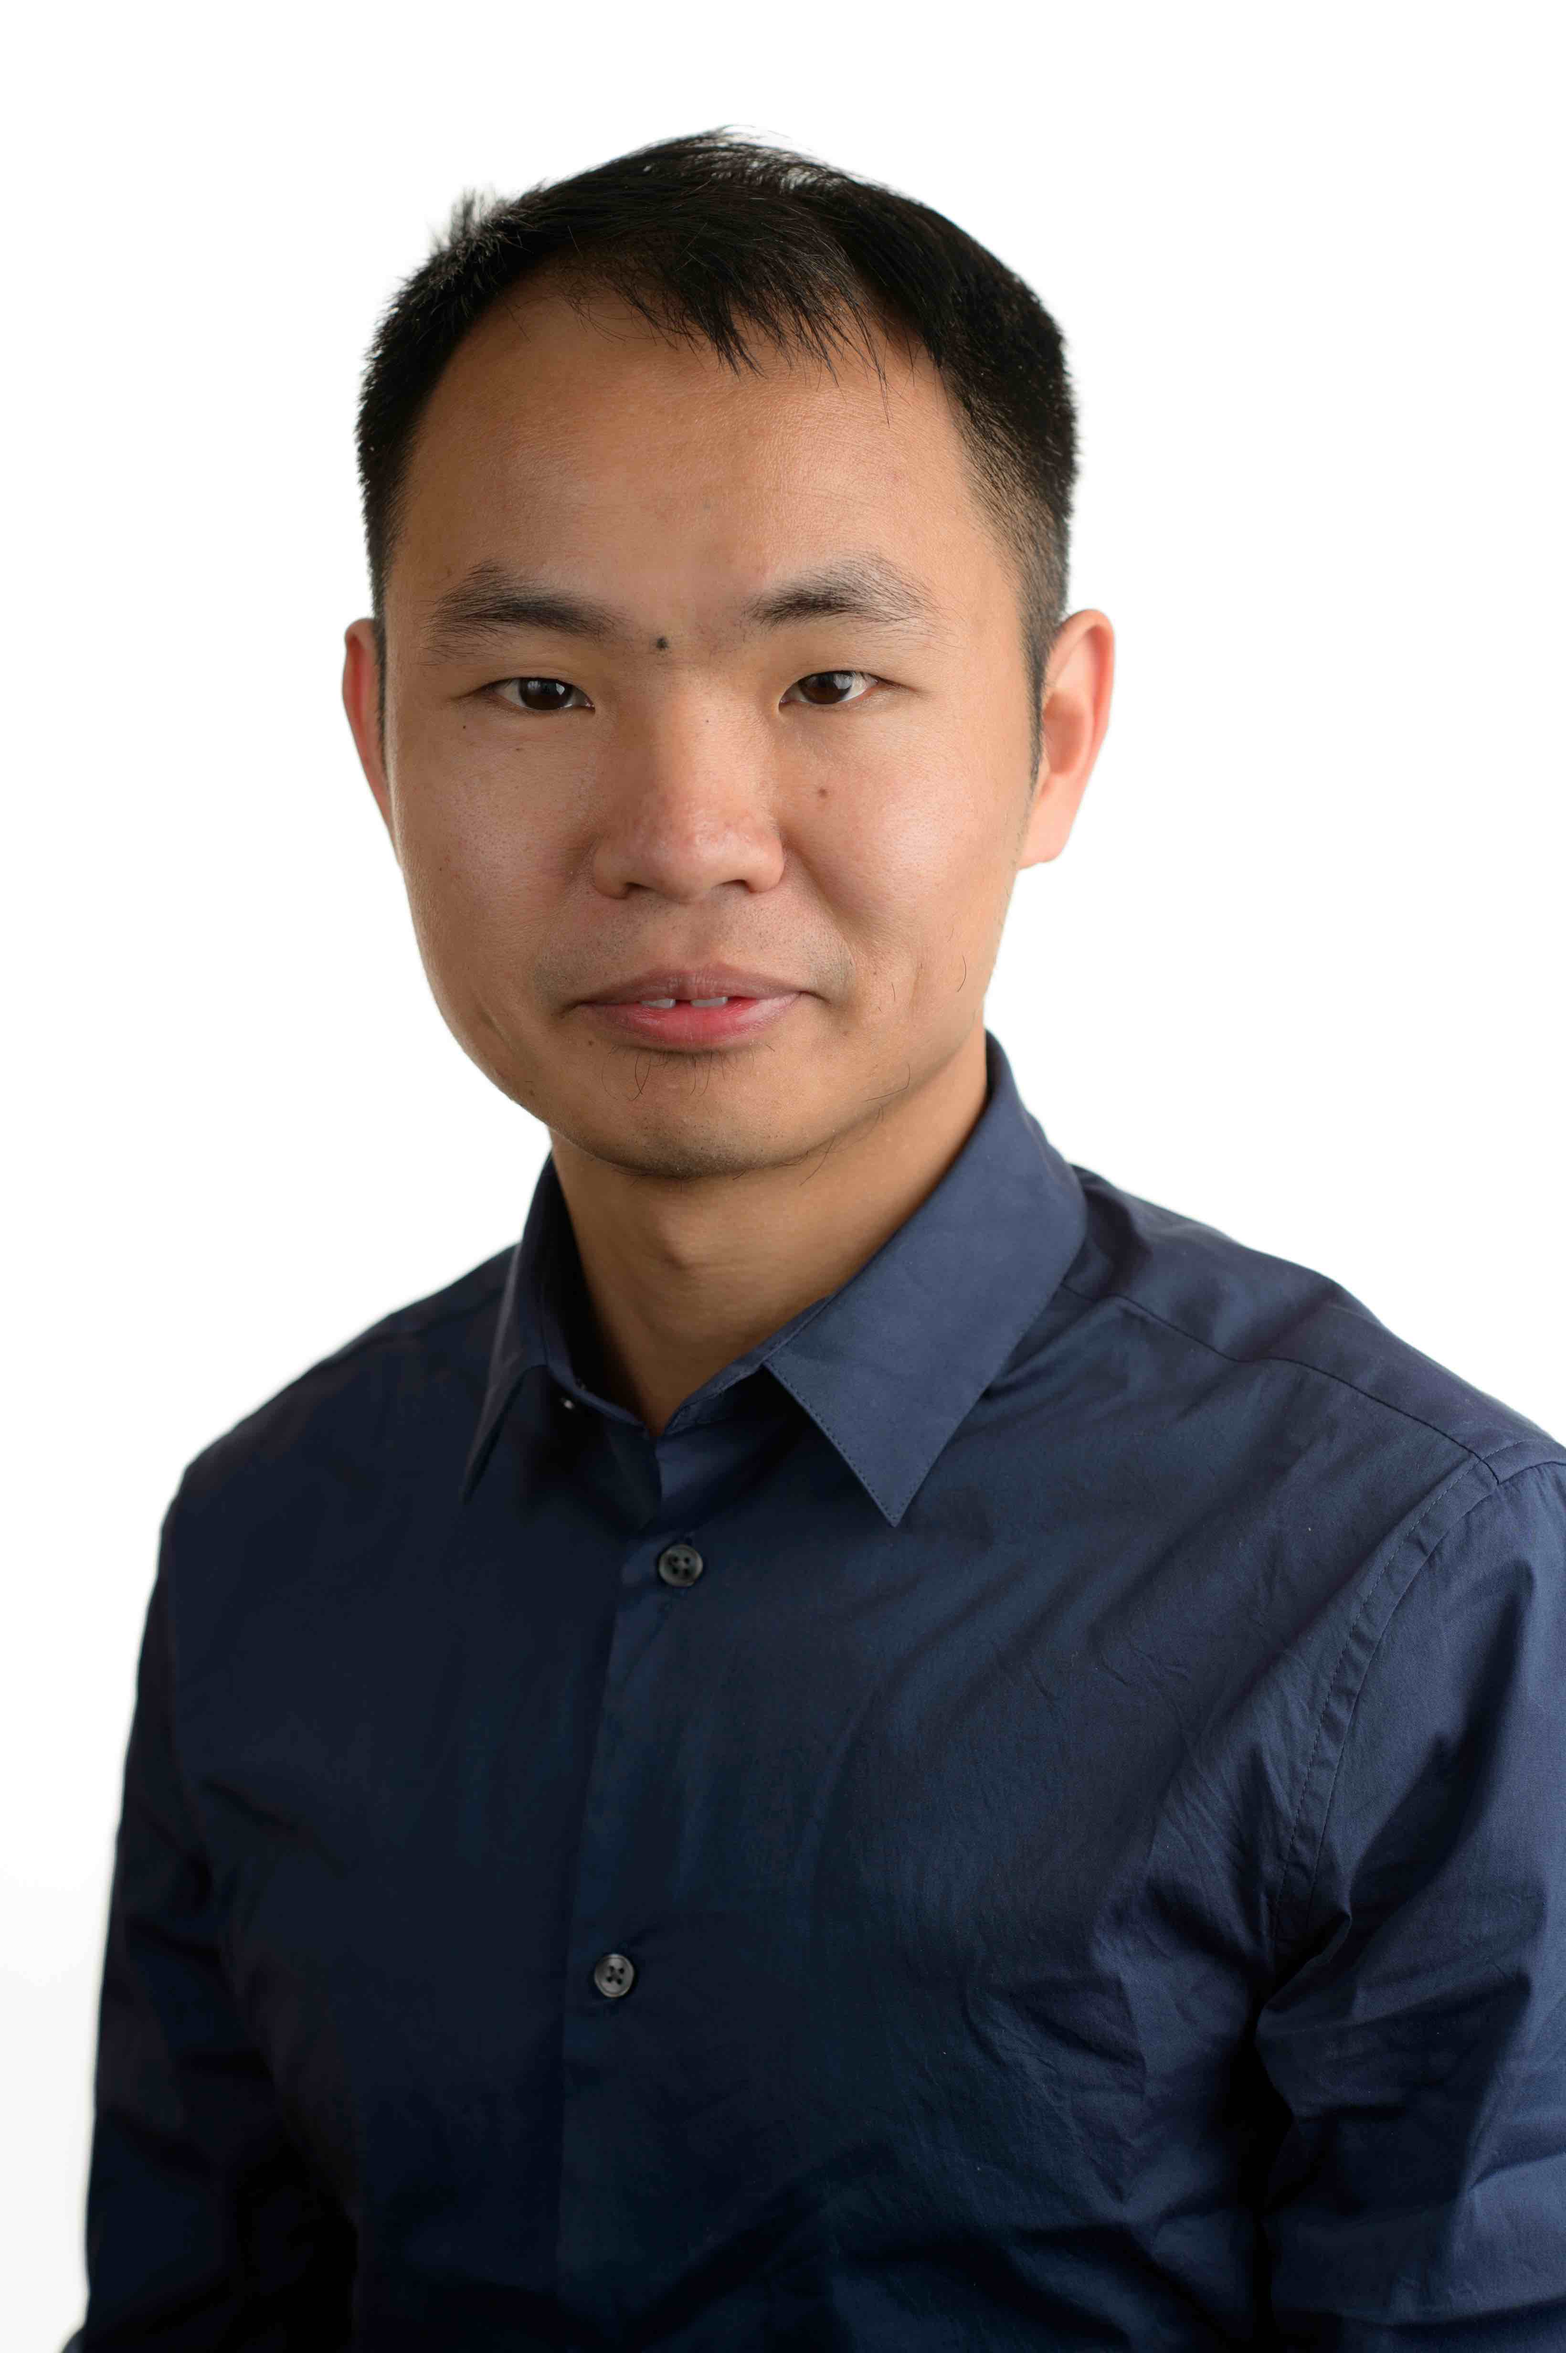
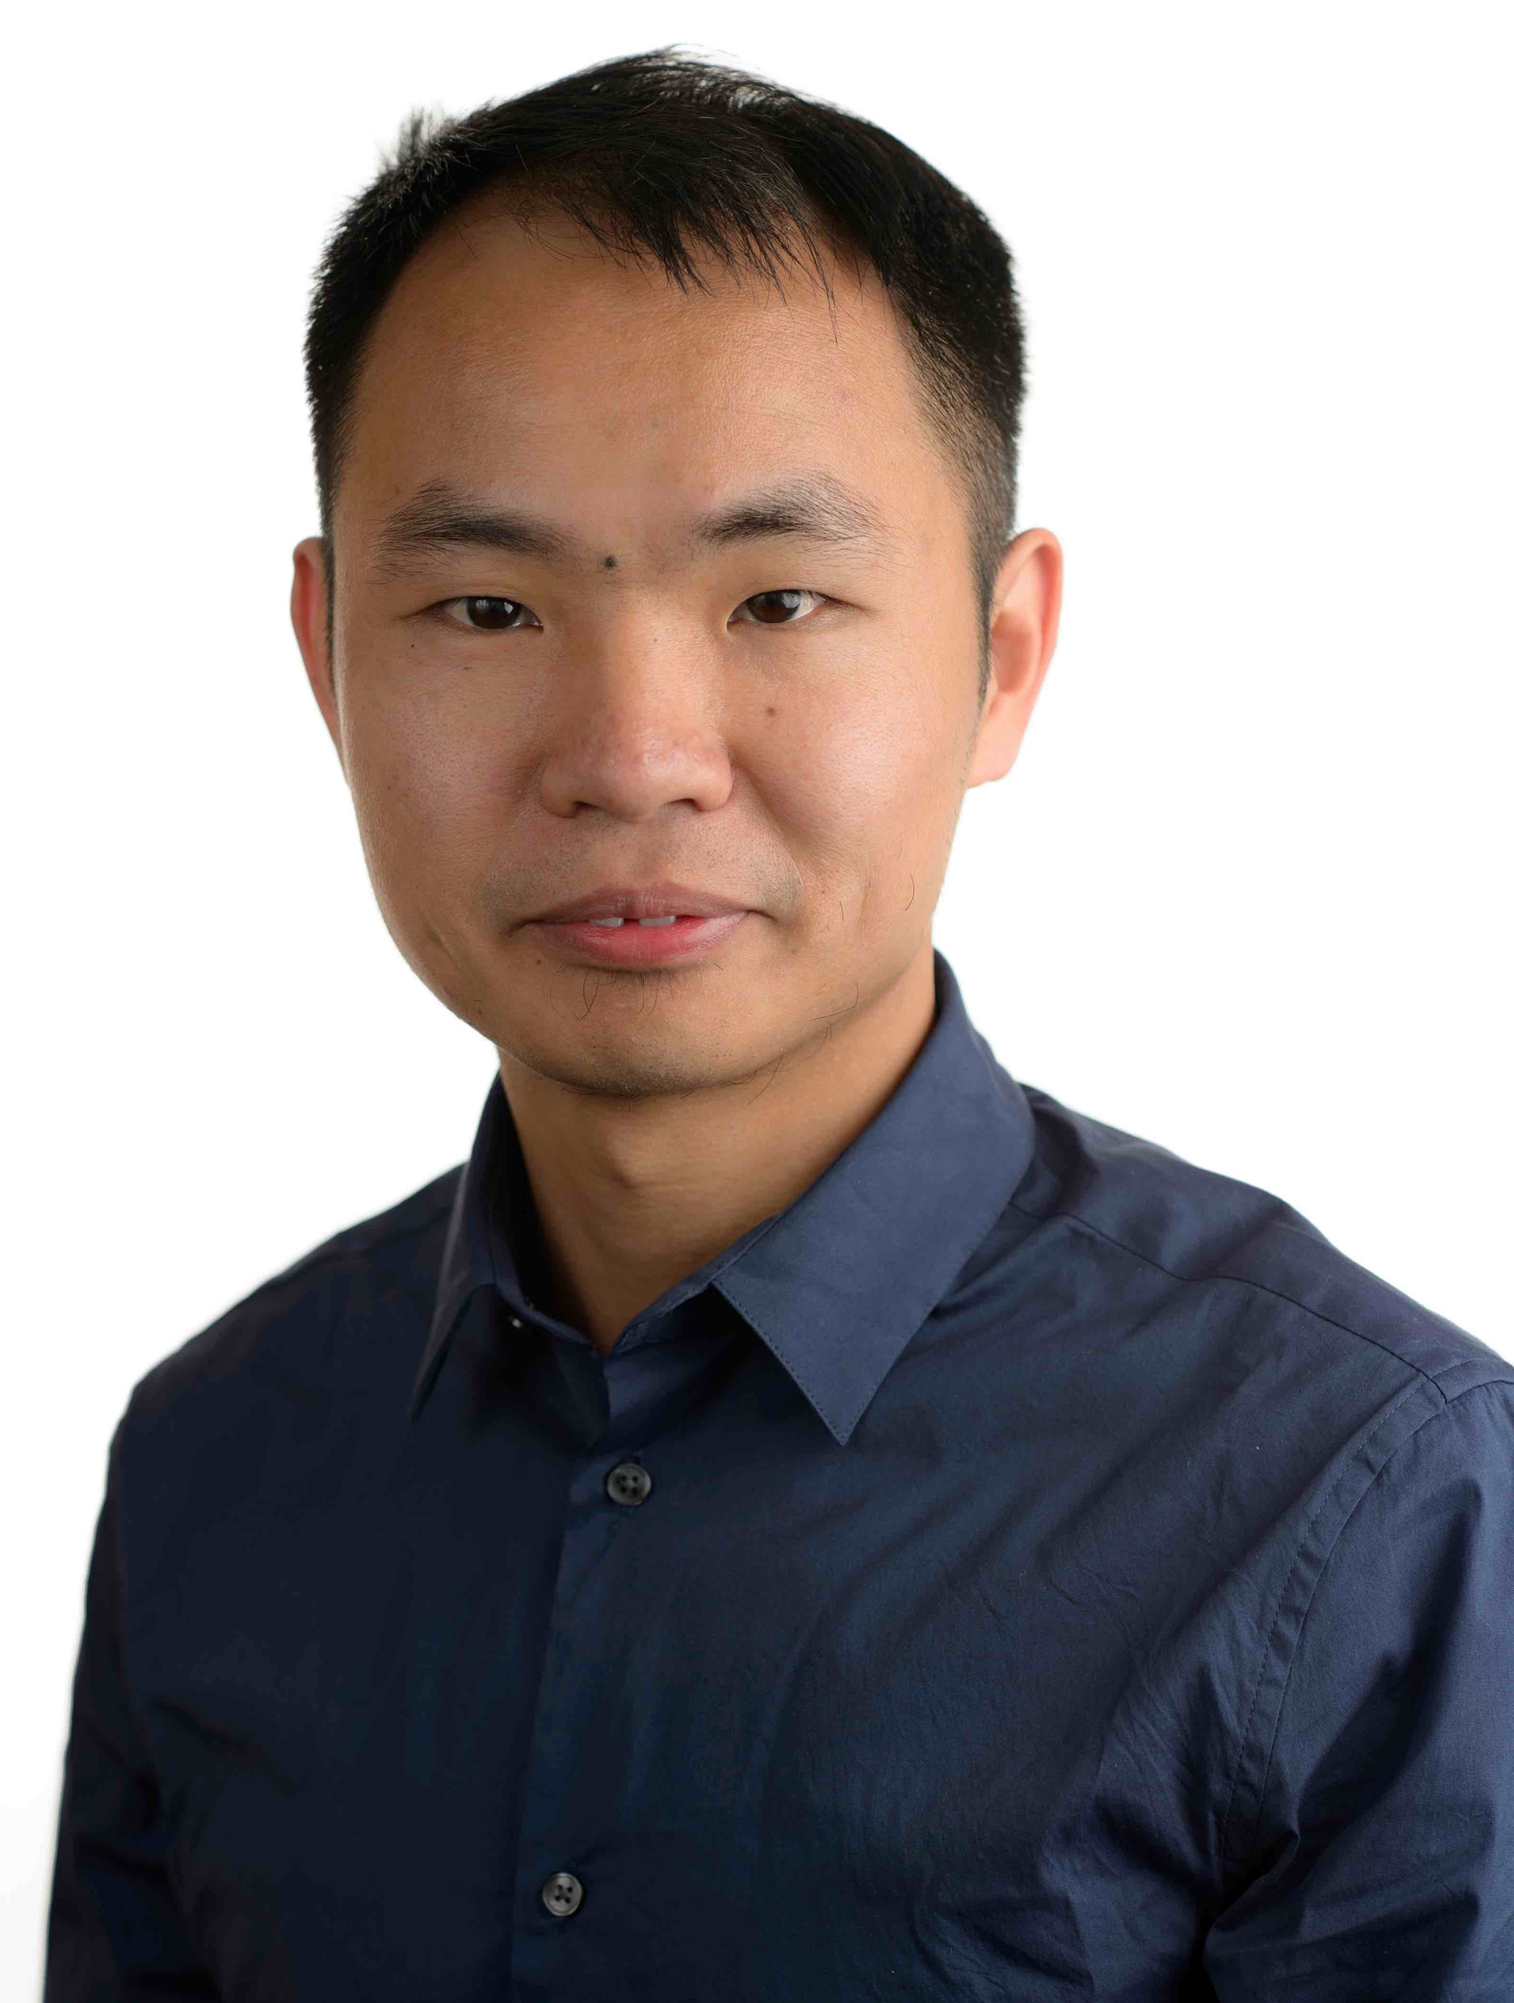
Update profile photo.

diff --git a/organizers-and-committee/index.html b/organizers-and-committee/index.html
@@ -330,7 +330,7 @@
 <div class="w-100 w-50-l pa3">
   <div class="ba b--moon-gray br2 bg-white pa3 pa4-ns flex items-center h-100">
     <div class="mr3 mr4-ns" style="width:6rem;min-width:6rem;">
-      <img src="/images/program-committee/timothy-mattson.jpg" alt="Dr. Timothy Mattson" class="db br-100" style="width:6rem;height:6rem;object-fit:cover;" />
+      <img src="/images/program-committee/timothy-mattson.png" alt="Dr. Timothy Mattson" class="db br-100" style="width:6rem;height:6rem;object-fit:cover;" />
     </div>
     <div class="flex-auto">
       <h3 class="f4 mt0 mb1"><a href="https://timmattson.com/work/" class="link dark-blue">Dr. Timothy Mattson</a></h3>
